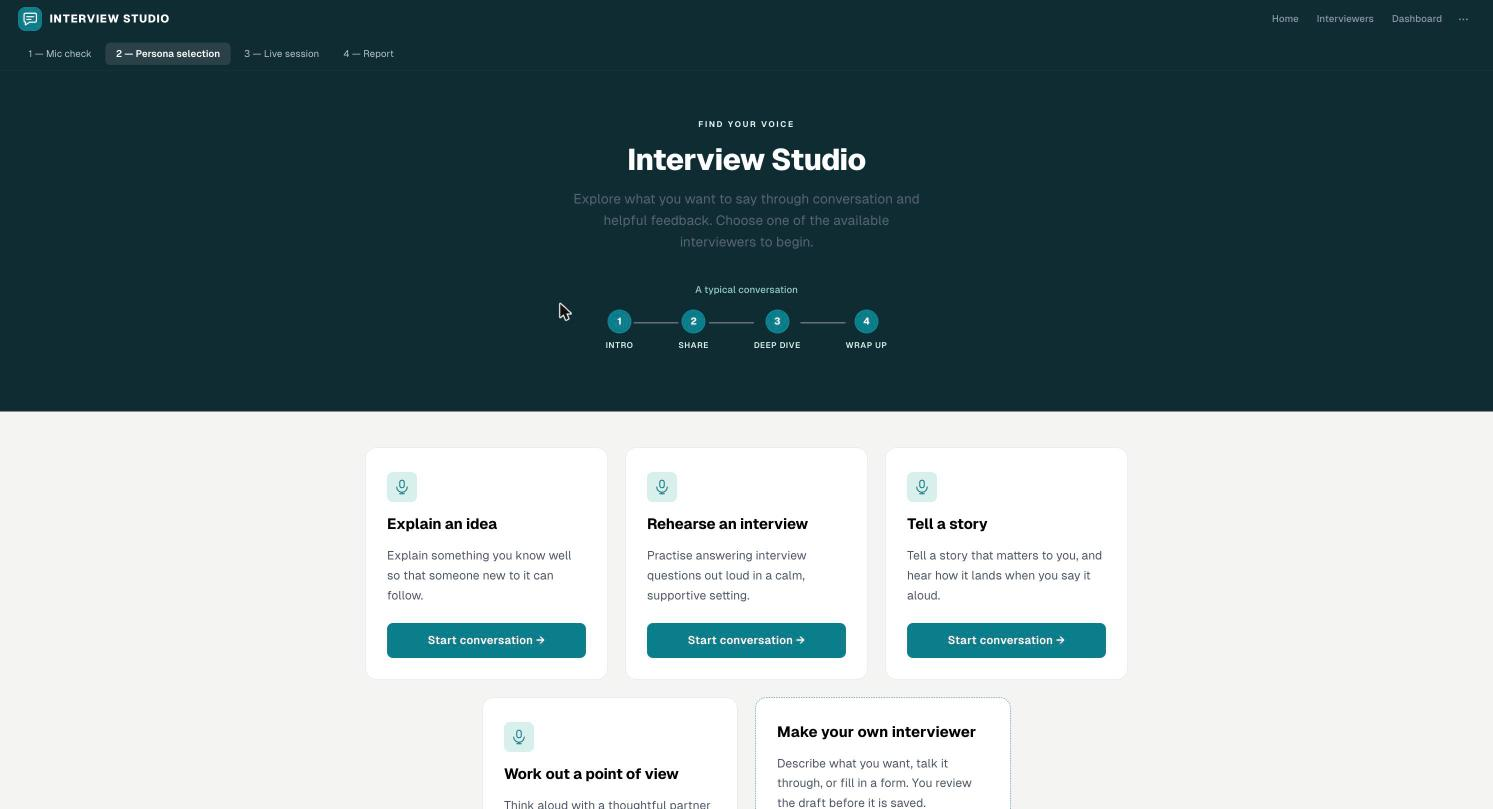
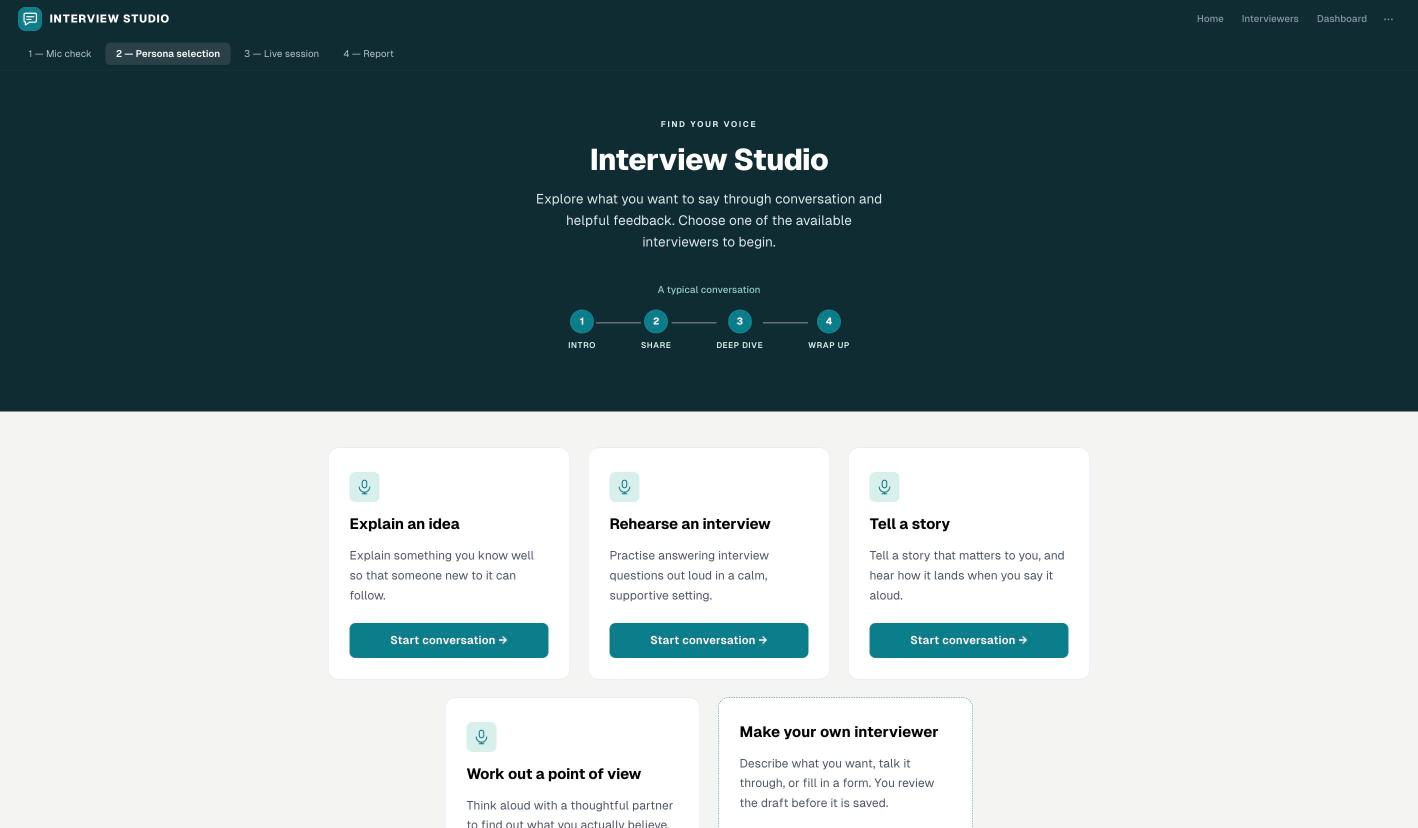
fix(frontend): raise hero subtitle contrast to meet WCAG AA
The home page hero subtitle was #566475 on #102B33, a contrast ratio of
2.46:1. Use the existing #DCE8EA tint (11.85:1). Refresh the README hero
screenshot to match.

diff --git a/apps/frontend/app/page.tsx b/apps/frontend/app/page.tsx
@@ -99,7 +99,7 @@ export default function HomePage() {
         <p
           style={{
             fontSize: 18,
-            color: "#566475",
+            color: "#DCE8EA",
             maxWidth: 480,
             lineHeight: 1.6,
             margin: "0 auto",
